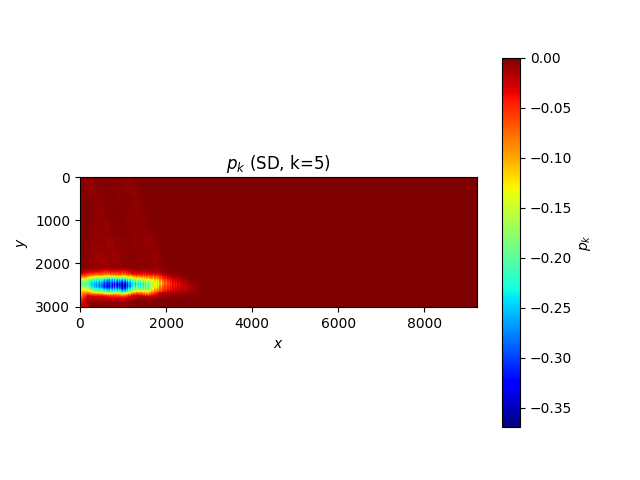
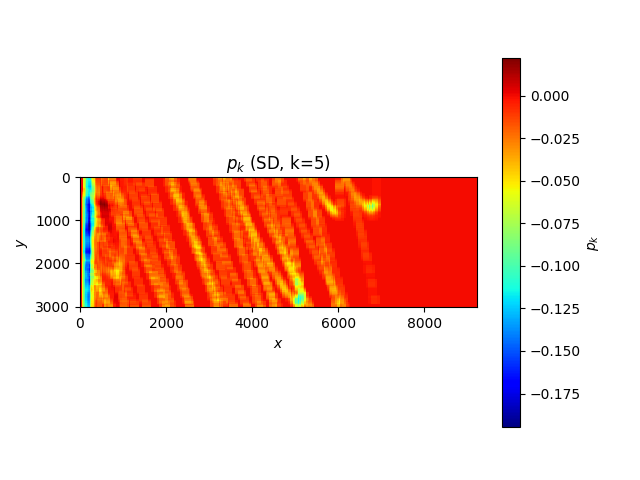
add multithreading for curved ray path

diff --git a/HW05/utility.py b/HW05/utility.py
@@ -2,6 +2,7 @@ import math
 import numpy as np
 import platform
 from scipy.ndimage import gaussian_filter, uniform_filter
+import multiprocessing as mp
 
 import settings, ray
 
@@ -65,6 +66,10 @@ def get_mean_t(i_y, i_x, s, old_T):
         )
     return T_mean
 
+def get_t_new(i_y, i_x, s, T):
+    Tnew = get_mean_t(i_y, i_x, s, T)
+    return min(T[i_y*settings.NX + i_x], Tnew)
+
 def get_travel_time(s, source_x, source_y, n_sweep=settings.N_SWEEP):
     T = np.multiply(1e6, np.ones(settings.NY*settings.NX))
     i_source_x = math.floor(source_x/settings.DX)
@@ -73,10 +78,17 @@ def get_travel_time(s, source_x, source_y, n_sweep=settings.N_SWEEP):
     for i_sweep in range(n_sweep):
         old_T = T
         # quad 1
+        # if not settings.N_PROCESSES:
         for i_y in range(settings.NY):
             for i_x in range(settings.NX):
                 Tnew = get_mean_t(i_y, i_x, s, T)
                 T[i_y*settings.NX + i_x] = min(T[i_y*settings.NX + i_x], Tnew)
+        # else:
+        #     pool = mp.Pool(processes=settings.N_PROCESSES)
+        #     T = np.array([
+        #             pool.apply(get_t_new, args=(i_y, i_x, s, T))
+        #         for i_x in range(settings.NX) for i_y in range(settings.NY)
+        #     ])
         # quad 2
         for i_y in range(settings.NY):
             for i_x in range(settings.NX-1, -1, -1):
@@ -96,22 +108,36 @@ def get_travel_time(s, source_x, source_y, n_sweep=settings.N_SWEEP):
             break
     return T
 
+def get_quick_curved_ray(x_s, y_s, x_r, y_r, s):
+    T = get_travel_time(s, x_s, y_s)
+    return ray.curved_ray(x_s, y_s, x_r, y_r, T)
+
 def get_l(s, recalculate=True, is_save=False):
     _x_min = 2.0*settings.DX
     _x_max = settings.NX * settings.DX - 2.0*settings.DX
     x_step = [ _x_min + i*settings.STEP_SR for i in range(int((_x_max-_x_min)/settings.STEP_SR))]
 
     if recalculate:
-        print("Calculating curve length")
+        # print("Calculating curve length")
         l = []
-        for x_s in x_step:
-            for x_r in x_step:
-                if x_s != x_r:
-                    # print(x_s, x_r)
-                    T = get_travel_time(s, x_s, settings.FIX_S_Y)
-                    l.append(ray.curved_ray(x_s, settings.FIX_S_Y, x_r, settings.FIX_R_Y, T))
+        if not settings.is_parallel:
+            for x_s in x_step:
+                T = get_travel_time(s, x_s, settings.FIX_S_Y)
+                for x_r in x_step:
+                    if x_s != x_r:
+                        l.append(ray.curved_ray(x_s, settings.FIX_S_Y, x_r, settings.FIX_R_Y, T))
+        else:
+            pool = mp.Pool(mp.cpu_count())
+            for x_s in x_step: 
+                l.extend(
+                    pool.starmap(
+                        get_quick_curved_ray,
+                        [(x_s, settings.FIX_S_Y, x_r, settings.FIX_R_Y, s) for x_r in x_step]
+                    )
+                )
+            pool.close()
         _L = np.array(l)
-        print("Finished ray tracing")
+        # print("Finished ray tracing")
         if is_save:
             np.savez('cache.npz', L=_L)
             print("save to cache file")
@@ -154,7 +180,7 @@ def get_proper_alpha(t_obs, s0, L0, pk, method='backtrack'):
     ALPHA0 = 1e-4
     C = 0.1
     if method == 'backtrack':
-        ALPHA_DECAYRATE = 0.8
+        ALPHA_DECAYRATE = 0.5
         alphak = ALPHA0
         while True:
             s1 = np.add(s0, np.multiply(alphak, pk))
@@ -165,7 +191,7 @@ def get_proper_alpha(t_obs, s0, L0, pk, method='backtrack'):
             alphak *= ALPHA_DECAYRATE
     elif method == 'cube_quad':
         alpha0 = ALPHA0
-        s_alpha0 = s0 + np.multiply(alpha0, pk)
+        s_alpha0 = np.add(s0, np.multiply(alpha0, pk))
         L_alpha0 = get_l(s_alpha0, recalculate=True)
         phi_0 = get_r(t_obs, s0, L0)
         grad_0 = grad(t_obs, s0, L0)
@@ -178,13 +204,13 @@ def get_proper_alpha(t_obs, s0, L0, pk, method='backtrack'):
         s_alpha1 = s0 + np.multiply(alpha1, pk)
         L_alpha1 = get_l(s_alpha1, recalculate=True)
         phi_alpha1 = get_r(t_obs, s_alpha1, L_alpha1)
-        if alpha1 > 1e-6 and phi_alpha1 <= phi_0 + C * alpha1 * phi_d0:
+        if alpha1 > 1e-8 and phi_alpha1 <= phi_0 + C * alpha1 * phi_d0:
             alphak = alpha1
         else:
             while True:
-                s_alpha0 = s0 + np.multiply(alpha0, pk)
+                s_alpha0 = np.add(s0, np.multiply(alpha0, pk))
                 L_alpha0 = get_l(s_alpha0, recalculate=True)
-                s_alpha1 = s0 + np.multiply(alpha1, pk)
+                s_alpha1 = np.add(s0, np.multiply(alpha1, pk))
                 L_alpha1 = get_l(s_alpha1, recalculate=True)
                 phi_alpha0 = get_r(t_obs, s_alpha0, L_alpha0)
                 phi_alpha1 = get_r(t_obs, s_alpha1, L_alpha1)

diff --git a/HW05/pb2/cg.py b/HW05/pb2/cg.py
@@ -1,3 +1,4 @@
+import os
 import numpy as np
 import platform
 if platform.system() == "Darwin":
@@ -13,7 +14,7 @@ LOG_RES = []
 def main():
     v_real = utility.readraw(filename=settings.FILENAME)
     s_real = 1.0/v_real
-    L_real = utility.get_l(s_real, recalculate=False)
+    L_real = utility.get_l(s_real, recalculate=True)
     t_obs = np.matmul(L_real, s_real)
 
     s_model = utility.smooth_map(s_real, mode='uniform')
@@ -21,13 +22,14 @@ def main():
 
     k = 0
     res = utility.get_r(t_obs, s_model, L)
+    print(res)
     LOG_RES.append(res)
 
     v_model = np.divide(1.0, s_model)
     plt.imshow(
         v_model.reshape(settings.NY, settings.NX), cmap='jet',
         extent=[0, settings.DX*settings.NX, settings.DX*settings.NY, 0],
-        # vmin=settings.COLOR_VMIN, vmax=settings.COLOR_VMAX,
+        vmin=settings.COLOR_VMIN, vmax=settings.COLOR_VMAX,
     )
     a = plt.colorbar()
     a.set_label('$v$')
@@ -45,7 +47,6 @@ def main():
                 s_model,
                 np.multiply(alphak, pk)
             )
-            s_model_new = utility.smooth_map(s_model_new, kernel_size=50)
             L_new = utility.get_l(s_model_new, recalculate=True)
             gradk = utility.grad(t_obs, s_model, L)
             gradk1 = utility.grad(t_obs, s_model_new, L_new)
@@ -54,6 +55,7 @@ def main():
             pk = np.add(np.negative(gradk1), np.multiply(betak1, pk))
             pk = np.divide(pk, np.max(np.abs(pk)))
             pk = utility.smooth_map(pk, mode='uniform', kernel_size=(10, 10))
+            # pk = utility.smooth_map(pk, mode='gaussian', kernel_size=(10, 10), pad_model='zero')
 
             plt.imshow(
                 pk.reshape(settings.NY, settings.NX), cmap='jet',
@@ -61,7 +63,7 @@ def main():
             )
             a = plt.colorbar()
             a.set_label('$p_k$')
-            plt.title("$p_k$ (SD, k={})".format(k))
+            plt.title("$p_k$ (CG, k={})".format(k))
             plt.xlabel("$x$")
             plt.ylabel("$y$")
             plt.savefig(os.path.join('pb2', 'pk_k%d.png'%k))
@@ -91,11 +93,12 @@ def main():
     plt.imshow(
         v_model.reshape(settings.NY, settings.NX), cmap='jet',
         extent=[0, settings.DX*settings.NX, settings.DX*settings.NY, 0],
-        # vmin=settings.COLOR_VMIN, vmax=settings.COLOR_VMAX,
+        vmin=settings.COLOR_VMIN, vmax=settings.COLOR_VMAX,
     )
     a = plt.colorbar()
     a.set_label('$v$')
-    plt.title("Model Velocity (SD, k={})".format(k))
+    plt.title("Model Velocity (CG, k={})".format(k))
     plt.xlabel("$x$")
     plt.ylabel("$y$")
     plt.savefig(os.path.join('pb2', 'model_v.png'))
+    print('The process is fully finish')

diff --git a/HW05/pb1/sd.py b/HW05/pb1/sd.py
@@ -14,7 +14,7 @@ LOG_RES = []
 def main():
     v_real = utility.readraw(filename=settings.FILENAME)
     s_real = 1.0/v_real
-    L_real = utility.get_l(s_real, recalculate=False)
+    L_real = utility.get_l(s_real, recalculate=True)
     t_obs = np.matmul(L_real, s_real)
 
     s_model = utility.smooth_map(s_real, mode='uniform')
@@ -43,6 +43,7 @@ def main():
             pk = np.negative(utility.grad(t_obs, s_model, L))
             pk = np.divide(pk, np.max(np.abs(pk)))
             pk = utility.smooth_map(pk, mode='uniform', kernel_size=(10, 10))
+            # pk = utility.smooth_map(pk, mode='gaussian', kernel_size=(5, 5), pad_model='zero')
 
             plt.imshow(
                 pk.reshape(settings.NY, settings.NX), cmap='jet',
@@ -66,7 +67,7 @@ def main():
             LOG_RES.append(res)
             print(k, res, alphak, np.min(s_model), np.max(s_model))
             k += 1
-    except KeyboardInterrupt:
+    except:
         pass
     
 
@@ -90,3 +91,4 @@ def main():
     plt.xlabel("$x$")
     plt.ylabel("$y$")
     plt.savefig(os.path.join('pb1', 'model_v.png'))
+    print('The process is fully finish')

diff --git a/HW05/unit_test/ray_path.py b/HW05/unit_test/ray_path.py
@@ -1,3 +1,4 @@
+import time
 import numpy as np
 import platform
 if platform.system() == "Darwin":
@@ -17,7 +18,9 @@ def main():
     v = utility.readraw(filename=settings.FILENAME)
     s = 1.0/v
     T = utility.get_travel_time(s, SOURCE_X, SOURCE_Y)
+    t_begin = time.time()
     L = ray.curved_ray(SOURCE_X, SOURCE_Y, RECEIVER_X, RECEIVER_Y, T)
+    print('Elapsed time for calculate one curve ray {0:.03f} s'.format(time.time() - t_begin))
     plt.imshow(
         L.reshape(settings.NY, settings.NX), cmap='jet',
         extent=[0, settings.DX*settings.NX, settings.DX*settings.NY, 0],

diff --git a/HW05/test.py b/HW05/test.py
@@ -1,0 +1,10 @@
+import multiprocessing as mp
+
+def cube(x, y):
+    return x*y
+
+
+if __name__ == '__main__':
+    pool = mp.Pool(processes=4)
+    results = [pool.apply(cube, args=(x,y)) for x in range(1,7) for y in range(7,10)]
+    print(results)

diff --git a/HW05/settings.py b/HW05/settings.py
@@ -1,10 +1,13 @@
 import numpy as np
 
+# parallel
+is_parallel = True
+
 FILENAME = "vel_nx461_nz151_dx20.dat"
 NX = 461
 NY = 151
 DX = 20
-STEP_SR = 200.0
+STEP_SR = 1500.0
 FIX_S_Y = 40
 FIX_R_Y = 60
 

diff --git a/HW05/main.py b/HW05/main.py
@@ -5,6 +5,6 @@ from pb2 import cg
 
 if __name__ == "__main__":
     sd.main()
-    cg.main()
+    # cg.main()
     # regularization.main()
-    # ray_path.main()
+    # eikonal.main()

diff --git a/HW05/unit_test/eikonal.py b/HW05/unit_test/eikonal.py
@@ -7,7 +7,7 @@ import matplotlib.pyplot as plt
 
 import utility, settings
 
-SOURCE_X = 4840.0
+SOURCE_X = 40.0
 SOURCE_Y = 40.0
 
 def main():
